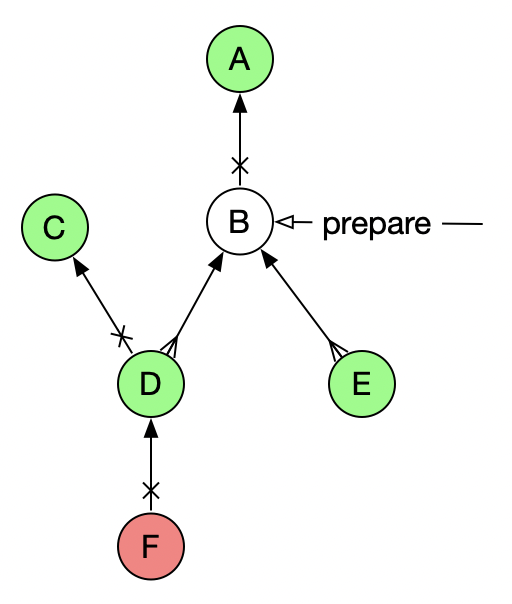
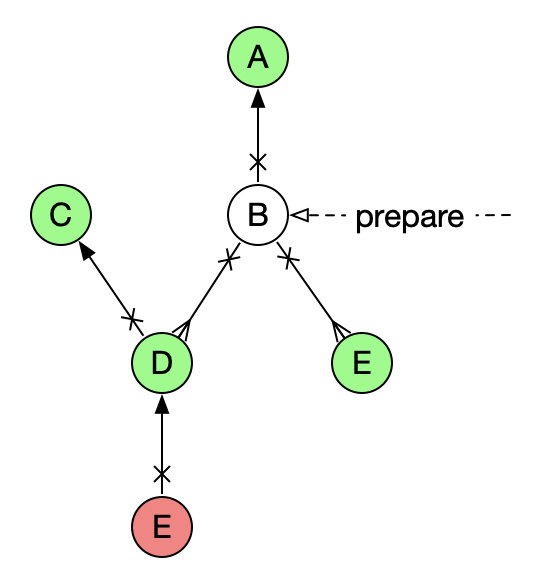
v3.4.3

diff --git a/README.md b/README.md
@@ -1,6 +1,6 @@
 # Apex Test Kit
 
-![](https://img.shields.io/badge/version-3.4.2-orange.svg) ![](https://img.shields.io/badge/build-passing-brightgreen.svg) ![](https://img.shields.io/badge/coverage-95%25-brightgreen.svg)
+![](https://img.shields.io/badge/version-3.4.3-brightgreen.svg) ![](https://img.shields.io/badge/build-passing-brightgreen.svg) ![](https://img.shields.io/badge/coverage-97%25-brightgreen.svg)
 
 Apex Test Kit can help generate massive records for Apex test classes. It solves two pain points during record creation:
 
@@ -9,8 +9,8 @@ Apex Test Kit can help generate massive records for Apex test classes. It solves
 
 | Environment           | Installation Link                                            | Version   |
 | --------------------- | ------------------------------------------------------------ | --------- |
-| Production, Developer | <a target="_blank" href="https://login.salesforce.com/packaging/installPackage.apexp?p0=04t2v0000079BfzAAE"><img src="docs/images/deploy-button.png"></a> | ver 3.4.2 |
-| Sandbox               | <a target="_blank" href="https://test.salesforce.com/packaging/installPackage.apexp?p0=04t2v0000079BfzAAE"><img src="docs/images/deploy-button.png"></a> | ver 3.4.2 |
+| Production, Developer | <a target="_blank" href="https://login.salesforce.com/packaging/installPackage.apexp?p0=04t2v0000079Bg9AAE"><img src="docs/images/deploy-button.png"></a> | ver 3.4.3 |
+| Sandbox               | <a target="_blank" href="https://test.salesforce.com/packaging/installPackage.apexp?p0=04t2v0000079Bg9AAE"><img src="docs/images/deploy-button.png"></a> | ver 3.4.3 |
 
 ------
 
@@ -18,7 +18,7 @@ Apex Test Kit can help generate massive records for Apex test classes. It solves
 
 - **[&#9749;Mock](#-mock)**:
   - `mock()` now supports one level of children relationship and many levels of parent relationships. Till now `mock()` should be able to return any sObject graph that would be returned from a valid SOQL. If not please help to raise an issue, I will try to fix it as high priority.
-  - **!!! [A Known SF Issue](https://trailblazer.salesforce.com/issues_view?id=a1p3A000001Gv4KQAS)**: When the Apex debug level is Finest rather than the others, a Maximum Stack Depth Reached exception is encountered. Currently there seems no quick solution to it, please follow [Issues/30](https://github.com/apexfarm/ApexTestKit/issues/30) for detail. However this only affects `mock()` but not `save()`.
+  - **v3.4.3 Fix**: A **[Known SF Issue](https://trailblazer.salesforce.com/issues_view?id=a1p3A000001Gv4KQAS)** was reported since winter 19. When the Apex debug level is Finest rather than the others, and there is circular reference between sObjects, a Maximum Stack Depth Reached exception is thrown. Currently I have mitigated the issue by breaking the references from children to their parents.
 - **[Fake Id](#fake-id)**: `ATK.fakeId(Account.SObjectType) ` can be used to directly generating a fake Id of the specific sObject type.
 - **[Relationship](#relationship)**: The validation of no cyclic relationship is enforced. Exception will be thrown if the validation is failed, i.e. A -> B -> C -> A is not allowed.
 - Account, Contact, Case and User are the only sObjects used in test classes.
@@ -187,15 +187,15 @@ There are three ways to create the sObjects.
 
 #### Mock with Children
 
-<p style="height:280px">
-  <img src="docs/images/mock-relationship.png#2021-1-32" align="right" width="250" alt="Mock Relationship">
-  To establish a relationship graph as the picture on the right, we can start from any node. However in order to generate correct child relationshp references we need to pick up the right one to start with. <b>Only the sObjects created in the prepare statement can have child relationships referencing to their direct children.</b> But all sObjects can have parent relationship and readonly fields generated during mocking. <br><br>
+<p>
+  <img src="docs/images/mock-relationship.png#2021-2-19" align="right" width="250" alt="Mock Relationship">
+  To establish a relationship graph as the picture on the right, we can start from any node. <b>However only the sObjects created in the prepare statement can have child relationships referencing their direct children.</b><br><br>
+  <b>Caution</b>: As the diagram illustrated the direct children D and E can no longer reference back to B. The decision is made to prevent a <a href="https://trailblazer.salesforce.com/issues_view?id=a1p3A000001Gv4KQAS">Known Salesforce Issue</a> reported since winter 19. Here we are trying to avoid forming circular references. But D and E can still have parent relationship referencing other sObject during mock, such as D to C. <br><br>
   All the nodes in green are reachable from node B. <br>
   1. Node B can access node A from parent relationship. <br>
   2. Node B can access node D and E from child relationship. <br>
   3. Node D can access node C but cannot access node F. <br>
 </p>
-
 
 
 ```java
